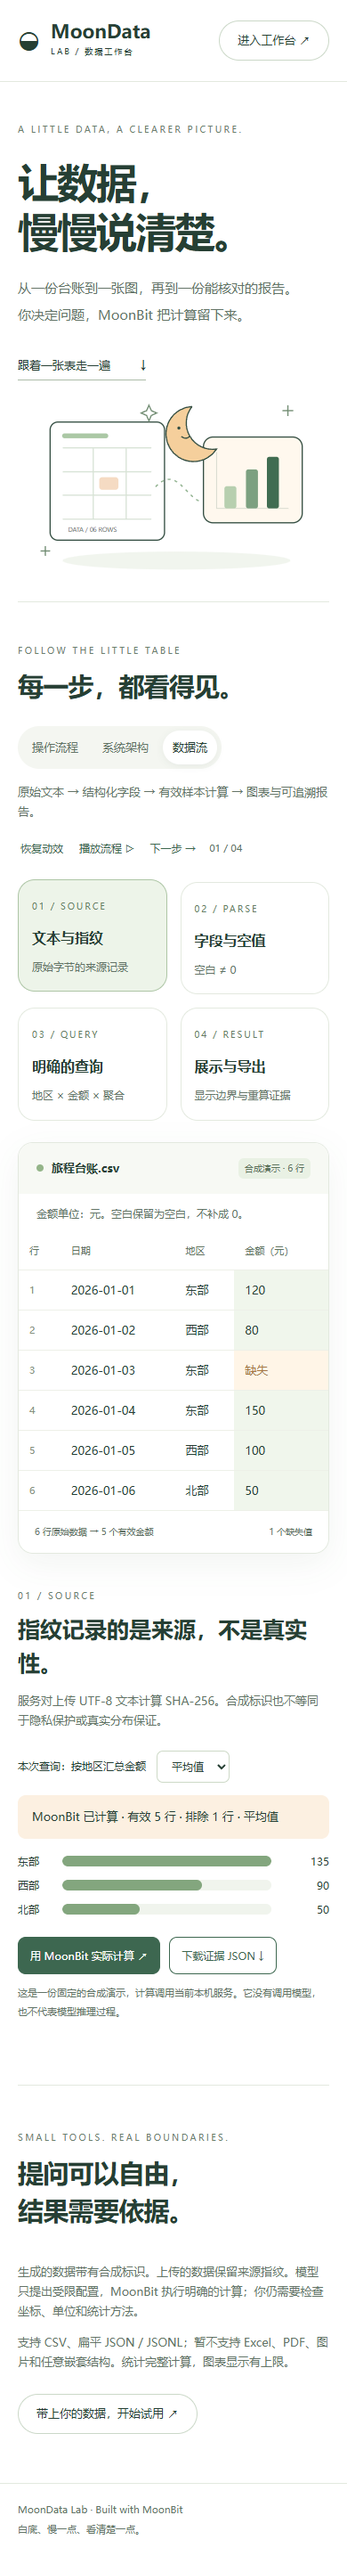
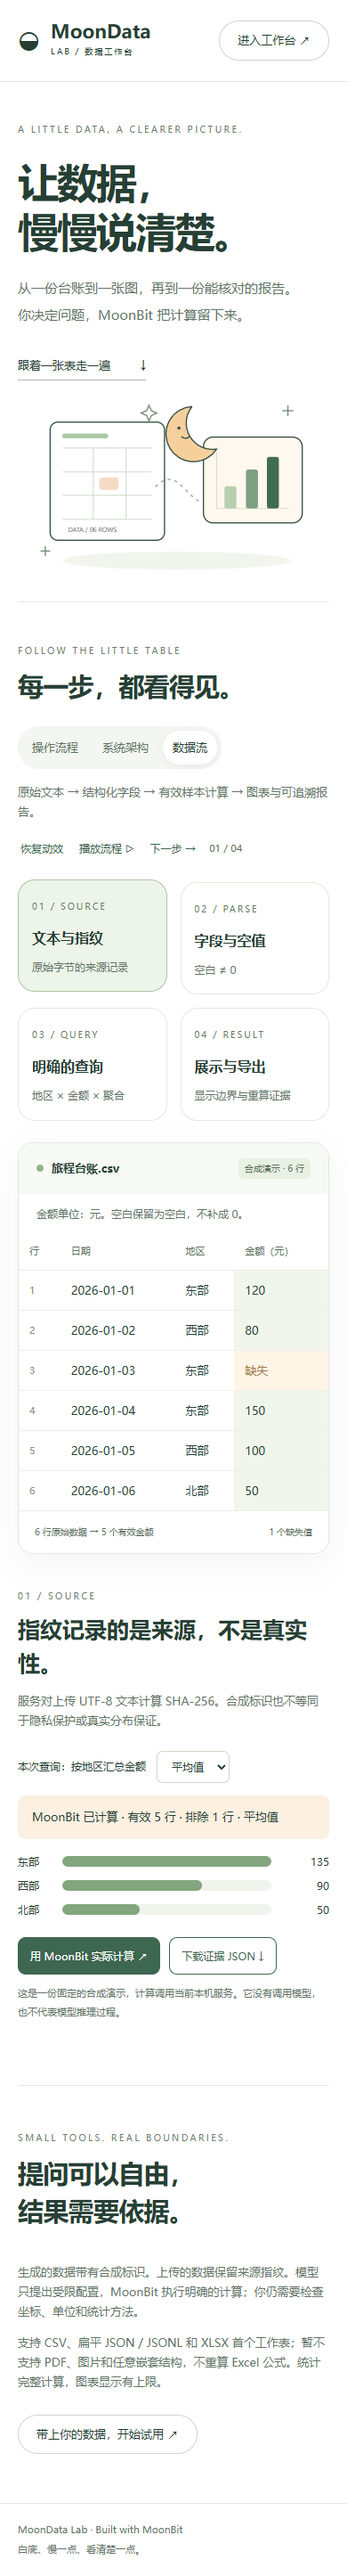
Make Windows builds reproducible with a pinned project-local toolchain

diff --git a/docs/showcase/index.html b/docs/showcase/index.html
@@ -18,6 +18,6 @@
 <div class="workspace"><section class="sheet"><div class="sheet-heading"><span class="dot"></span><strong>旅程台账.csv</strong><span class="tag">合成演示 · 6 行</span></div><p>金额单位：元。空白保留为空白，不补成 0。</p><div class="table-scroll"><table><thead><tr><th>行</th><th>日期</th><th>地区</th><th>金额（元）</th></tr></thead><tbody id="rows"></tbody></table></div><div class="sheet-note"><span>6 行原始数据 → 5 个有效金额</span><span>1 个缺失值</span></div></section>
 <section class="explanation" aria-labelledby="step-title"><p id="step-label" class="eyebrow">01 / INPUT</p><h3 id="step-title"></h3><p id="step-copy"></p><div class="query"><label for="reducer">本次查询：按地区汇总金额</label><select id="reducer"><option value="sum">总和</option><option value="mean">平均值</option></select></div><div id="evidence" role="status" aria-live="polite"></div><div id="mini-chart" aria-label="按地区汇总的演示结果"></div><div class="actions"><button id="compute">用 MoonBit 实际计算 ↗</button><button id="export" disabled>下载证据 JSON ↓</button></div><p class="boundary">这是一份固定的合成演示，计算调用当前本机服务。它没有调用模型，也不代表模型推理过程。</p></section></div>
 </section>
-<section class="closing"><div><p class="eyebrow">SMALL TOOLS. REAL BOUNDARIES.</p><h2>提问可以自由，<br>结果需要依据。</h2></div><div><p>生成的数据带有合成标识。上传的数据保留来源指纹。模型只提出受限配置，MoonBit 执行明确的计算；你仍需要检查坐标、单位和统计方法。</p><p>支持 CSV、扁平 JSON / JSONL；暂不支持 Excel、PDF、图片和任意嵌套结构。统计完整计算，图表显示有上限。</p><a class="open" href="/">带上你的数据，开始试用 ↗</a></div></section>
+<section class="closing"><div><p class="eyebrow">SMALL TOOLS. REAL BOUNDARIES.</p><h2>提问可以自由，<br>结果需要依据。</h2></div><div><p>生成的数据带有合成标识。上传的数据保留来源指纹。模型只提出受限配置，MoonBit 执行明确的计算；你仍需要检查坐标、单位和统计方法。</p><p>支持 CSV、扁平 JSON / JSONL 和 XLSX 首个工作表；暂不支持 PDF、图片和任意嵌套结构，不重算 Excel 公式。统计完整计算，图表显示有上限。</p><a class="open" href="/">带上你的数据，开始试用 ↗</a></div></section>
 </main><footer><span>MoonData Lab · Built with MoonBit</span><span>白底、慢一点、看清楚一点。</span></footer>
 </body></html>

diff --git a/scripts/windows/moon-path-compat.cs b/scripts/windows/moon-path-compat.cs
@@ -1,0 +1,36 @@
+using System;
+using System.Diagnostics;
+using System.IO;
+using System.Text;
+// Local proxy for the pinned Windows compiler tools; never changes their output.
+class Compat {
+    // Windows argv quoting: backslashes before quotes and at the end are doubled.
+    static string Quote(string argument) {
+        var quoted = new StringBuilder("\"");
+        int slashes = 0;
+        foreach (char c in argument) {
+            if (c == '\\') { slashes++; continue; }
+            quoted.Append('\\', c == '\"' ? 2 * slashes + 1 : slashes).Append(c);
+            slashes = 0;
+        }
+        return quoted.Append('\\', 2 * slashes).Append('\"').ToString();
+    }
+    static int Main(string[] args) {
+        var name = Path.GetFileName(Process.GetCurrentProcess().MainModule.FileName);
+        var bin = Environment.GetEnvironmentVariable("MOON_COMPAT_BIN");
+        if (String.IsNullOrEmpty(bin)) { Console.Error.WriteLine("MOON_COMPAT_BIN is required."); return 2; }
+        var commandLine = new StringBuilder();
+        foreach (var argument in args)
+            commandLine.Append(Quote(argument.Replace(@"\\?\UNC\", @"\\").Replace(@"\\?\", ""))).Append(' ');
+        using (var child = new Process()) {
+            child.StartInfo = new ProcessStartInfo(Path.Combine(bin, name), commandLine.ToString()) {
+                UseShellExecute = false, CreateNoWindow = true,
+                RedirectStandardOutput = true, RedirectStandardError = true
+            };
+            child.OutputDataReceived += (s, e) => { if (e.Data != null) Console.Out.WriteLine(e.Data); };
+            child.ErrorDataReceived += (s, e) => { if (e.Data != null) Console.Error.WriteLine(e.Data); };
+            child.Start(); child.BeginOutputReadLine(); child.BeginErrorReadLine(); child.WaitForExit();
+            return child.ExitCode;
+        }
+    }
+}

diff --git a/docs/REVIEW_CHECKPOINT.md b/docs/REVIEW_CHECKPOINT.md
@@ -1,5 +1,23 @@
 # 产品审阅与真实数据回归：续跑检查点
 
+## 最新状态：2026-10-21 15:33心跳续跑（优先于下文）
+
+开始用量4%，最近8%，resetsAt=1792578733。Windows构建修复已固化：scripts/setup-windows-toolchain.mjs准备固定SHA-256的官方工具链和配套核心，在项目.local编译scripts/windows/moon-path-compat.cs适配器，成功bundle JS/WasmGC才激活windows-toolchain.json。scripts/toolchain.mjs在无显式MOON/MOON_HOME时自动选择项目配置；不改系统安装、全局PATH或账号。正常node scripts/check.mjs已通过71项Node、双后端各15项。核心数学没有修改。
+
+scripts/verify-source-build.mjs已在无编译产物/无工具链/无node_modules的新源码目录（路径含空格）验证：仅预放两份固定校验档案以避免重复联网，重新安装与编译、完整check和HTTP服务启动及/showcase访问均通过。第二次使用格式化后的最终C#源码再测也通过，证据artifacts/source-build-verification.json。清楚区分缓存档案校验和首次网络可用性测试，未假称全新联网下载已测。服务已停止，无遗留进程。
+
+README与docs/WINDOWS_BUILD.md写明首次准备步骤、固定哈希、latest地址变动时失败而不静默升级、显式环境覆盖优先。导览已同步XLSX首表支持及不重算公式的限制，5项导览验证通过。v0.5的新源码交付包将在本轮提交后重新生成，实际版本/提交/hash读父目录deliverables/moondata-lab-v0.5.0-receipt.json。
+
+当前剩余发布任务：gh auth status仍未登录；已有本地v0.4推送收据，但无法据此确认当前远端或v0.5上传。本轮不再重复发设备码，不宣称推送完成。用户在线时核对可用的Git认证、按既有授权推送最新提交、核对远端SHA和CI，然后同步发布记录/最终打包。无需再改产品功能或反复全量回归。全部完成才暂停moondata心跳。
+
+本次将提交上述脚本、文档和验证产物，工作区状态与提交号读git log；下一轮仍先查账号300分钟总用量，达到10%即停止。
+
+
+## 心跳核对：2026-10-21 10:32 北京时间
+
+当前账号300分钟用量仍为9%，服务返回resetsAt=1792550128；不依据时钟自行认定额度已经重置。接近用户10%上限，本次保留余量，不开启工具链固化、构建或发布步骤，仅保存检查点。下轮先重新读取实际用量，低于上限且有足够余量再继续上文的构建修复。没有使用额度重置券、购买或切换账号；任务未完成，心跳保留，不重复发送无变化通知。
+
+
 ## 最新核验：2026-10-21 05:43 北京时间（优先于下文）
 
 工作区已有其他会话提交的v0.5 c114294（XLSX、workspace保存、自由绘图收敛）；保留这些更改，不退回v0.4。账号从0%开始，当前8%，准备保存并留出10%上限余量；resetsAt=1792550128。

diff --git a/docs/WINDOWS_BUILD.md b/docs/WINDOWS_BUILD.md
@@ -1,0 +1,22 @@
+# Windows：可核对的项目内工具链
+
+```powershell
+node scripts/setup-windows-toolchain.mjs
+node scripts/check.mjs
+./start.ps1
+```
+
+准备脚本需要联网和Windows x64，使用系统自带tar与.NET Framework C#编译器。源码运行没有新增第三方JavaScript包。所有下载、标准库编译和路径适配器均位于忽略的.local，系统MoonBit、用户PATH和账号设置保持不变。
+
+工具链固定为0.10.16+b1a0e846e。档案来自MoonBit官方[下载页](https://www.moonbitlang.com/download)，配套标准库来源对应官方安装脚本。脚本在解压前核对固定SHA-256；缓存和新下载执行相同校验。地址含latest但内容**不会自动跟随升级**，内容改变后必须人工审查新版本与校验值。标准库SHA是本项目固定下载指纹，不声称具有独立签名认证。
+
+| 档案 | SHA-256 |
+| --- | --- |
+| moonbit-windows-x86_64.zip | 653ebf0a3b2683048faa8ad79b7b7d0721bf78726bf1a7e58678e9740b0d430f |
+| core-latest.zip | d58caf5ee6e2a95d8785adf7d90fd68dd9366d174df1dfaa36646dd6b47c5663 |
+
+本机发现驱动传入的Windows扩展路径在编译器中报错，且原全局标准库缓存与编译器版本不一致。scripts/windows/moon-path-compat.cs仅规范化编译器参数中的扩展路径前缀，正确引用参数，并转发标准输出、错误与退出码；不修改业务算法，不过滤编译器错误，不在构建失败时偷偷使用旧产物。
+
+两种标准库目标JS/WasmGC都成功编译后，脚本才写.local/windows-toolchain.json。正常的build/check/start通过scripts/toolchain.mjs自动选择它，环境只影响当前命令及其子进程。显式MOON或MOON_HOME优先，避免覆盖使用者指定的工具链；若之前手动设置过它们，请先在当前终端清除再使用项目配置。
+
+源码包不包含.local、模型权重和编译产物，因此解压后仍需执行准备步骤。官方可变地址未来若不再提供本次固定档案，会明确失败，不承诺无限期在线重现；可保留已验证档案用于离线准备。长于Windows普通路径限制的目录仍建议迁到较短位置，路径兼容层不等于完整的长路径支持。

diff --git a/docs/ACCEPTANCE.md b/docs/ACCEPTANCE.md
@@ -1,5 +1,7 @@
 # v0.5 预览版验收补充
 
+2026-10-21 构建修复固化：普通check与全新含空格源码目录中的准备、JS/WasmGC完整检查、HTTP启动均通过（见artifacts/source-build-verification.json）。新目录仅复用两份固定校验下载档案，没有带入编译产物或工具链。说明见WINDOWS_BUILD.md；GitHub新版本尚未确认推送。
+
 2026-10-21 05:43补验：在隔离官方0.10.16与配套标准库、临时Windows路径适配器下，完整check71项Node及核心JS15/WasmGC15通过；新编译产物下22项浏览器、cars旅程、5项导览、40+2公开回归均通过。证据artifacts/v05-core-verification.json。启动流程尚未集成该环境修复，不宣称全新源码包可直接构建；详见REVIEW_CHECKPOINT。
 
 2026-10-21：在 v0.4 基线上交付 XLSX 首表导入、UTF-8 校验、工作区包、自由画图路径收敛与预览版话术。Node `test/*.test.mjs` **71/71** 通过（含新增 v05）；浏览器 Edge 旅程 **22** 项通过（`artifacts/browser-acceptance.json`），散点/日期折线改走自由画图。本机 `.local/moon-path.txt` 指向的 Moon 工具链不存在，未能重跑 MoonBit JS/WasmGC 套件；本轮未改 `.mbt` 源码，沿用既有 `web/engine.js`。未扩大真实模型准确率结论；GitHub 仍待认证。
